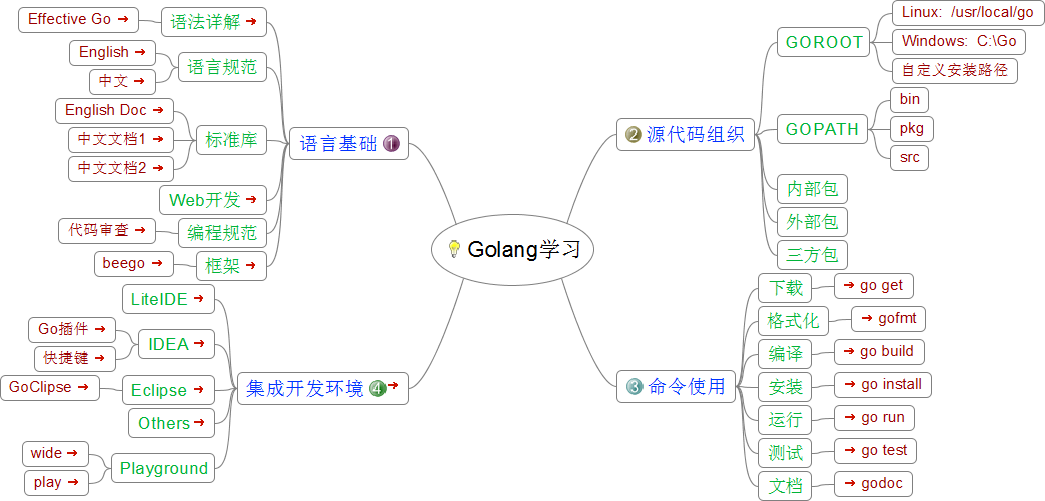
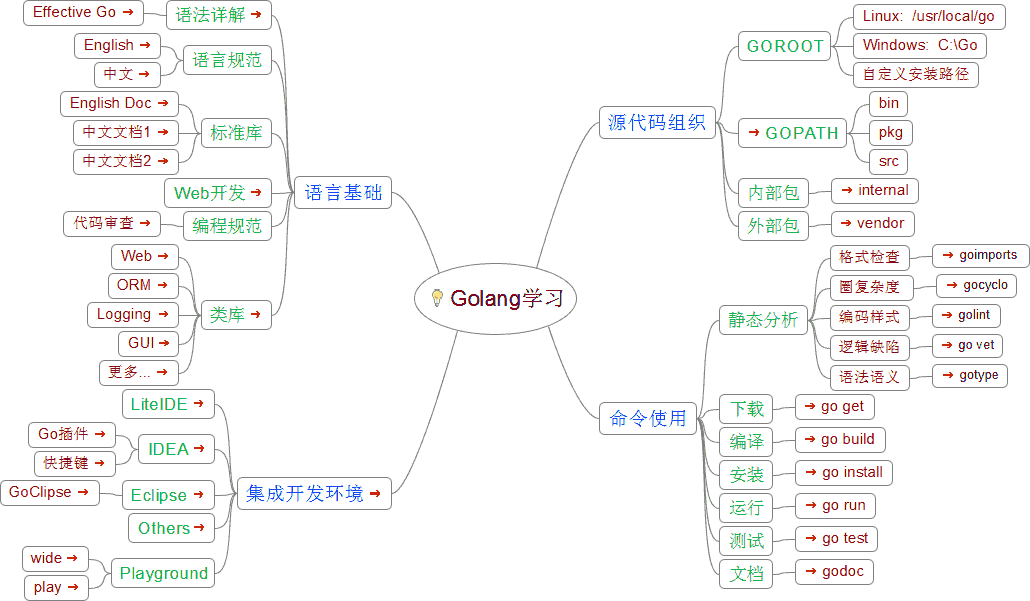
update golang study mindmap

diff --git a/static/gonote/GolangStudy.html b/static/gonote/GolangStudy.html
@@ -1,69 +1,82 @@
-<!DOCTYPE html PUBLIC "-//W3C//DTD XHTML 1.1//EN" "http://www.w3.org/TR/xhtml11/DTD/xhtml11.dtd">
-<html xmlns="http://www.w3.org/1999/xhtml">
+<!DOCTYPE html>
+<html>
 <meta content="text/html; charset=UTF-8" http-equiv="Content-Type" />
-<!--This file has been created with freemind2html.xsl-->
 <head>
 <title>Golang学习</title>
 </head>
 <body>
 <div style="width:96%;  padding:2%;  margin-bottom:10px;  border: 0px;  text-align:center;  vertical-align:center;">
-<img src="GolangStudy.png" style="margin-bottom:10px; &#9;border: 0px; &#9;text-align:center; &#9;vertical-align:center;" alt="Imagemap" usemap="#fm_imagemap" />
+<img src="Go学习New.html_files/image.png" style="margin-bottom:10px; &#9;border: 0px; &#9;text-align:center; &#9;vertical-align:center;" alt="Imagemap" usemap="#fm_imagemap" />
 </div>
 <map id="fm_imagemap" name="fm_imagemap">
-<area shape="rect" href="#" alt="Golang学习" title="Golang学习" coords="431,214,594,286" />
-<area shape="rect" href="#" alt="语言基础" title="语言基础" coords="289,127,409,160" />
-<area shape="rect" target="_blank" href="http://yougg.github.io/static/gonote/gogrammar.html"  alt="语法详解" title="语法详解" coords="161,7,267,37" />
-<area shape="rect" target="_blank" href="https://go-zh.org/doc/effective_go.html"  alt="Effective Go" title="Effective Go" coords="18,7,139,33" />
-<area shape="rect" href="#" alt="语言规范" title="语言规范" coords="178,52,267,82" />
-<area shape="rect" target="_blank" href="https://golang.org/ref/spec"  alt="English" title="English" coords="69,40,156,66" />
-<area shape="rect" target="_blank" href="https://go-zh.org/ref/spec.old"  alt="中文" title="中文" coords="89,69,156,95" />
-<area shape="rect" href="#" alt="标准库" title="标准库" coords="196,125,267,155" />
-<area shape="rect" target="_blank" href="https://golang.org/pkg/"  alt="English Doc" title="English Doc" coords="55,98,174,124" />
-<area shape="rect" target="_blank" href="http://godoc.ml/"  alt="中文文档1" title="中文文档1" coords="68,127,174,153" />
-<area shape="rect" target="_blank" href="http://studygolang.com/pkgdoc"  alt="中文文档2" title="中文文档2" coords="68,156,174,182" />
-<area shape="rect" target="_blank" href="https://github.com/astaxie/build-web-application-with-golang/blob/master/zh/preface.md"  alt="Web开发" title="Web开发" coords="159,185,267,215" />
-<area shape="rect" href="#" alt="编程规范" title="编程规范" coords="178,218,267,248" />
-<area shape="rect" target="_blank" href="https://code.google.com/p/go-wiki/wiki/CodeReviewComments"  alt="代码审查" title="代码审查" coords="58,218,156,244" />
-<area shape="rect" target="_blank" href="http://awesome-go.com/"  alt="框架" title="框架" coords="196,251,267,281" />
-<area shape="rect" target="_blank" href="http://beego.me/"  alt="beego" title="beego" coords="94,251,174,277" />
-<area shape="rect" href="#" alt="源代码组织" title="源代码组织" coords="616,118,755,151" />
-<area shape="rect" href="#" alt="GOROOT" title="GOROOT" coords="777,27,870,57" />
-<area shape="rect" href="#" alt="Linux:  /usr/local/go" title="Linux:  /usr/local/go" coords="892,0,1045,26" />
-<area shape="rect" href="#" alt="Windows:  C:\Go" title="Windows:  C:\Go" coords="892,29,1026,55" />
-<area shape="rect" href="#" alt="自定义安装路径" title="自定义安装路径" coords="892,58,1018,84" />
-<area shape="rect" href="#" alt="GOPATH" title="GOPATH" coords="777,114,868,144" />
-<area shape="rect" href="#" alt="bin" title="bin" coords="890,87,929,113" />
-<area shape="rect" href="#" alt="pkg" title="pkg" coords="890,116,934,142" />
-<area shape="rect" href="#" alt="src" title="src" coords="890,145,929,171" />
-<area shape="rect" href="#" alt="内部包" title="内部包" coords="777,174,848,204" />
-<area shape="rect" href="#" alt="外部包" title="外部包" coords="777,207,848,237" />
-<area shape="rect" href="#" alt="三方包" title="三方包" coords="777,240,848,270" />
-<area shape="rect" href="#" alt="命令使用" title="命令使用" coords="616,370,736,403" />
-<area shape="rect" href="#" alt="下载" title="下载" coords="758,273,812,303" />
-<area shape="rect" target="_blank" href="https://github.com/hyper-carrot/go_command_tutorial/blob/master/0.3.md"  alt="go get" title="go get" coords="834,273,914,299" />
-<area shape="rect" href="#" alt="格式化" title="格式化" coords="758,306,829,336" />
-<area shape="rect" target="_blank" href="https://github.com/hyper-carrot/go_command_tutorial/blob/master/0.10.md"  alt="gofmt" title="gofmt" coords="851,306,926,332" />
-<area shape="rect" href="#" alt="编译" title="编译" coords="758,339,812,369" />
-<area shape="rect" target="_blank" href="https://github.com/hyper-carrot/go_command_tutorial/blob/master/0.1.md"  alt="go build" title="go build" coords="834,339,925,365" />
-<area shape="rect" href="#" alt="安装" title="安装" coords="758,372,812,402" />
-<area shape="rect" target="_blank" href="https://github.com/hyper-carrot/go_command_tutorial/blob/master/0.2.md"  alt="go install" title="go install" coords="834,372,932,398" />
-<area shape="rect" href="#" alt="运行" title="运行" coords="758,405,812,435" />
-<area shape="rect" target="_blank" href="https://github.com/hyper-carrot/go_command_tutorial/blob/master/0.6.md"  alt="go run" title="go run" coords="834,405,915,431" />
-<area shape="rect" href="#" alt="测试" title="测试" coords="758,438,812,468" />
-<area shape="rect" target="_blank" href="https://github.com/hyper-carrot/go_command_tutorial/blob/master/0.7.md"  alt="go test" title="go test" coords="834,438,917,464" />
-<area shape="rect" href="#" alt="文档" title="文档" coords="758,471,812,501" />
-<area shape="rect" target="_blank" href="https://github.com/hyper-carrot/go_command_tutorial/blob/master/0.5.md"  alt="godoc" title="godoc" coords="834,471,913,497" />
-<area shape="rect" target="_blank" href="https://github.com/golang/go/wiki/IDEsAndTextEditorPlugins"  alt="集成开发环境" title="集成开发环境" coords="237,372,409,405" />
-<area shape="rect" target="_blank" href="https://github.com/visualfc/liteide"  alt="LiteIDE" title="LiteIDE" coords="122,284,215,314" />
-<area shape="rect" target="_blank" href="https://www.jetbrains.com/idea/"  alt="IDEA" title="IDEA" coords="138,329,215,359" />
-<area shape="rect" target="_blank" href="https://github.com/go-lang-plugin-org/go-lang-idea-plugin"  alt="Go插件" title="Go插件" coords="28,317,116,343" />
-<area shape="rect" target="_blank" href="http://yougg.github.io/static/gonote/IDEA_Shortcut.svg" alt="快捷键" title="快捷键" coords="34,346,116,372" />
-<area shape="rect" target="_blank" href="http://www.eclipse.org/"  alt="Eclipse" title="Eclipse" coords="122,375,215,405" />
-<area shape="rect" target="_blank" href="https://github.com/GoClipse/goclipse"  alt="GoClipse" title="GoClipse" coords="0,375,100,401" />
-<area shape="rect" target="_blank" href="https://github.com/astaxie/build-web-application-with-golang/blob/master/zh/01.4.md"  alt="Others" title="Others" coords="128,408,215,438" />
-<area shape="rect" href="#" alt="Playground" title="Playground" coords="111,453,215,483" />
-<area shape="rect" target="_blank" href="https://wide.b3log.org/playground"  alt="wide" title="wide" coords="22,441,89,467" />
-<area shape="rect" target="_blank" href="http://play.golang.org/"  alt="play" title="play" coords="24,470,89,496" />
+<area shape="rect" target="_blank" href="javascript:" alt="Golang学习" title="Golang学习" coords="414,263,577,335" />
+<area shape="rect" target="_blank" href="javascript:" alt="语言基础" title="语言基础" coords="294,176,392,209" />
+<area shape="rect" target="_blank" href="http://yougg.github.io/static/gonote/gogrammar.html" alt="语法详解" title="语法详解" coords="166,0,272,30" />
+<area shape="rect" target="_blank" href="https://go-zh.org/doc/effective_go.html" alt="Effective Go" title="Effective Go" coords="23,0,144,26" />
+<area shape="rect" target="_blank" href="javascript:" alt="语言规范" title="语言规范" coords="183,45,272,75" />
+<area shape="rect" target="_blank" href="https://golang.org/ref/spec" alt="English" title="English" coords="74,33,161,59" />
+<area shape="rect" target="_blank" href="https://go-zh.org/ref/spec.old" alt="中文" title="中文" coords="94,62,161,88" />
+<area shape="rect" target="_blank" href="javascript:" alt="标准库" title="标准库" coords="201,118,272,148" />
+<area shape="rect" target="_blank" href="https://golang.org/pkg/" alt="English Doc" title="English Doc" coords="60,91,179,117" />
+<area shape="rect" target="_blank" href="http://godoc.ml/" alt="中文文档1" title="中文文档1" coords="73,120,179,146" />
+<area shape="rect" target="_blank" href="http://studygolang.com/pkgdoc" alt="中文文档2" title="中文文档2" coords="73,149,179,175" />
+<area shape="rect" target="_blank" href="https://github.com/astaxie/build-web-application-with-golang/blob/master/zh/preface.md" alt="Web开发" title="Web开发" coords="164,178,272,208" />
+<area shape="rect" target="_blank" href="javascript:" alt="编程规范" title="编程规范" coords="183,211,272,241" />
+<area shape="rect" target="_blank" href="https://code.google.com/p/go-wiki/wiki/CodeReviewComments" alt="代码审查" title="代码审查" coords="63,211,161,237" />
+<area shape="rect" target="_blank" href="https://golanglibs.com/" alt="类库" title="类库" coords="201,300,272,330" />
+<area shape="rect" target="_blank" href="http://awesome-go.com/#web-frameworks" alt="Web" title="Web" coords="111,244,179,270" />
+<area shape="rect" target="_blank" href="http://awesome-go.com/#orm" alt="ORM" title="ORM" coords="108,273,179,299" />
+<area shape="rect" target="_blank" href="http://awesome-go.com/#logging" alt="Logging" title="Logging" coords="87,302,179,328" />
+<area shape="rect" target="_blank" href="http://awesome-go.com/#gui" alt="GUI" title="GUI" coords="118,331,179,357" />
+<area shape="rect" target="_blank" href="http://awesome-go.com/" alt="更多..." title="更多..." coords="99,360,179,386" />
+<area shape="rect" target="_blank" href="javascript:" alt="源代码组织" title="源代码组织" coords="599,106,716,139" />
+<area shape="rect" target="_blank" href="javascript:" alt="GOROOT" title="GOROOT" coords="738,31,831,61" />
+<area shape="rect" target="_blank" href="javascript:" alt="Linux:  /usr/local/go" title="Linux:  /usr/local/go" coords="853,4,1006,30" />
+<area shape="rect" target="_blank" href="javascript:" alt="Windows:  C:\Go" title="Windows:  C:\Go" coords="853,33,987,59" />
+<area shape="rect" target="_blank" href="javascript:" alt="自定义安装路径" title="自定义安装路径" coords="853,62,979,88" />
+<area shape="rect" target="_blank" href="https://blog.golang.org/organizing-go-code" alt="GOPATH" title="GOPATH" coords="738,118,847,148" />
+<area shape="rect" target="_blank" href="javascript:" alt="bin" title="bin" coords="869,91,908,117" />
+<area shape="rect" target="_blank" href="javascript:" alt="pkg" title="pkg" coords="869,120,913,146" />
+<area shape="rect" target="_blank" href="javascript:" alt="src" title="src" coords="869,149,908,175" />
+<area shape="rect" target="_blank" href="javascript:" alt="内部包" title="内部包" coords="738,178,809,208" />
+<area shape="rect" target="_blank" href="https://golang.org/doc/go1.4#internalpackages" alt="internal" title="internal" coords="831,178,919,204" />
+<area shape="rect" target="_blank" href="javascript:" alt="外部包" title="外部包" coords="738,211,809,241" />
+<area shape="rect" target="_blank" href="https://golang.org/s/go15vendor" alt="vendor" title="vendor" coords="831,211,915,237" />
+<area shape="rect" target="_blank" href="javascript:" alt="命令使用" title="命令使用" coords="599,402,697,435" />
+<area shape="rect" target="_blank" href="javascript:" alt="静态分析" title="静态分析" coords="719,305,808,335" />
+<area shape="rect" target="_blank" href="javascript:" alt="格式检查" title="格式检查" coords="830,245,910,271" />
+<area shape="rect" target="_blank" href="https://godoc.org/golang.org/x/tools/cmd/goimports" alt="goimports" title="goimports" coords="932,244,1030,268" />
+<area shape="rect" target="_blank" href="javascript:" alt="圈复杂度 " title="圈复杂度 " coords="830,275,914,301" />
+<area shape="rect" target="_blank" href="https://github.com/fzipp/gocyclo" alt="gocyclo" title="gocyclo" coords="936,274,1017,298" />
+<area shape="rect" target="_blank" href="javascript:" alt="编码样式" title="编码样式" coords="830,305,910,331" />
+<area shape="rect" target="_blank" href="https://github.com/golang/lint" alt="golint" title="golint" coords="932,304,1001,328" />
+<area shape="rect" target="_blank" href="javascript:" alt="逻辑缺陷" title="逻辑缺陷" coords="830,335,910,361" />
+<area shape="rect" target="_blank" href="https://github.com/hyper-carrot/go_command_tutorial/blob/master/0.11.md" alt="go vet" title="go vet" coords="932,334,1003,358" />
+<area shape="rect" target="_blank" href="javascript:" alt="语法语义" title="语法语义" coords="830,365,910,391" />
+<area shape="rect" target="_blank" href="https://godoc.org/golang.org/x/tools/cmd/gotype" alt="gotype" title="gotype" coords="932,364,1008,388" />
+<area shape="rect" target="_blank" href="javascript:" alt="下载" title="下载" coords="719,394,773,424" />
+<area shape="rect" target="_blank" href="https://github.com/hyper-carrot/go_command_tutorial/blob/master/0.3.md" alt="go get" title="go get" coords="795,394,875,420" />
+<area shape="rect" target="_blank" href="javascript:" alt="编译" title="编译" coords="719,427,773,457" />
+<area shape="rect" target="_blank" href="https://github.com/hyper-carrot/go_command_tutorial/blob/master/0.1.md" alt="go build" title="go build" coords="795,427,886,453" />
+<area shape="rect" target="_blank" href="javascript:" alt="安装" title="安装" coords="719,460,773,490" />
+<area shape="rect" target="_blank" href="https://github.com/hyper-carrot/go_command_tutorial/blob/master/0.2.md" alt="go install" title="go install" coords="795,460,893,486" />
+<area shape="rect" target="_blank" href="javascript:" alt="运行" title="运行" coords="719,493,773,523" />
+<area shape="rect" target="_blank" href="https://github.com/hyper-carrot/go_command_tutorial/blob/master/0.6.md" alt="go run" title="go run" coords="795,493,876,519" />
+<area shape="rect" target="_blank" href="javascript:" alt="测试" title="测试" coords="719,526,773,556" />
+<area shape="rect" target="_blank" href="https://github.com/hyper-carrot/go_command_tutorial/blob/master/0.7.md" alt="go test" title="go test" coords="795,526,878,552" />
+<area shape="rect" target="_blank" href="javascript:" alt="文档" title="文档" coords="719,559,773,589" />
+<area shape="rect" target="_blank" href="https://github.com/hyper-carrot/go_command_tutorial/blob/master/0.5.md" alt="godoc" title="godoc" coords="795,559,874,585" />
+<area shape="rect" target="_blank" href="https://github.com/golang/go/wiki/IDEsAndTextEditorPlugins" alt="集成开发环境" title="集成开发环境" coords="237,477,392,510" />
+<area shape="rect" target="_blank" href="https://github.com/visualfc/liteide" alt="LiteIDE" title="LiteIDE" coords="122,389,215,419" />
+<area shape="rect" target="_blank" href="https://www.jetbrains.com/idea/" alt="IDEA" title="IDEA" coords="138,434,215,464" />
+<area shape="rect" target="_blank" href="https://github.com/go-lang-plugin-org/go-lang-idea-plugin" alt="Go插件" title="Go插件" coords="28,422,116,448" />
+<area shape="rect" target="_blank" href="http://yougg.github.io/static/gonote/IDEA_Shortcut.svg" alt="快捷键" title="快捷键" coords="34,451,116,477" />
+<area shape="rect" target="_blank" href="http://www.eclipse.org/" alt="Eclipse" title="Eclipse" coords="122,480,215,510" />
+<area shape="rect" target="_blank" href="https://github.com/GoClipse/goclipse" alt="GoClipse" title="GoClipse" coords="0,480,100,506" />
+<area shape="rect" target="_blank" href="https://github.com/astaxie/build-web-application-with-golang/blob/master/zh/01.4.md" alt="Others" title="Others" coords="128,513,215,543" />
+<area shape="rect" target="_blank" href="javascript:" alt="Playground" title="Playground" coords="111,558,215,588" />
+<area shape="rect" target="_blank" href="https://wide.b3log.org/playground" alt="wide" title="wide" coords="22,546,89,572" />
+<area shape="rect" target="_blank" href="http://play.golang.org/" alt="play" title="play" coords="24,575,89,601" />
 </map>
 
 <div id="disqus_thread" style="margin: 0 auto; max-width: 800px;"></div>
